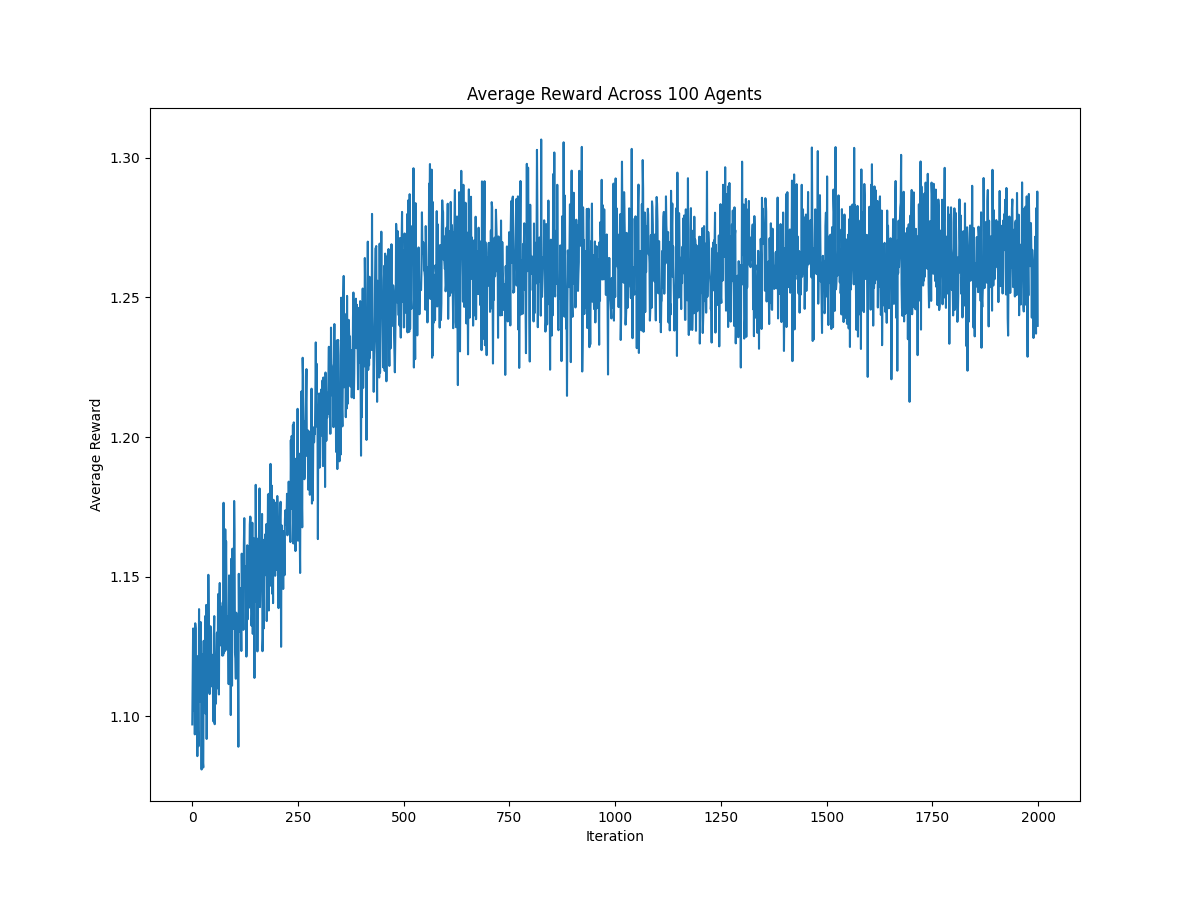
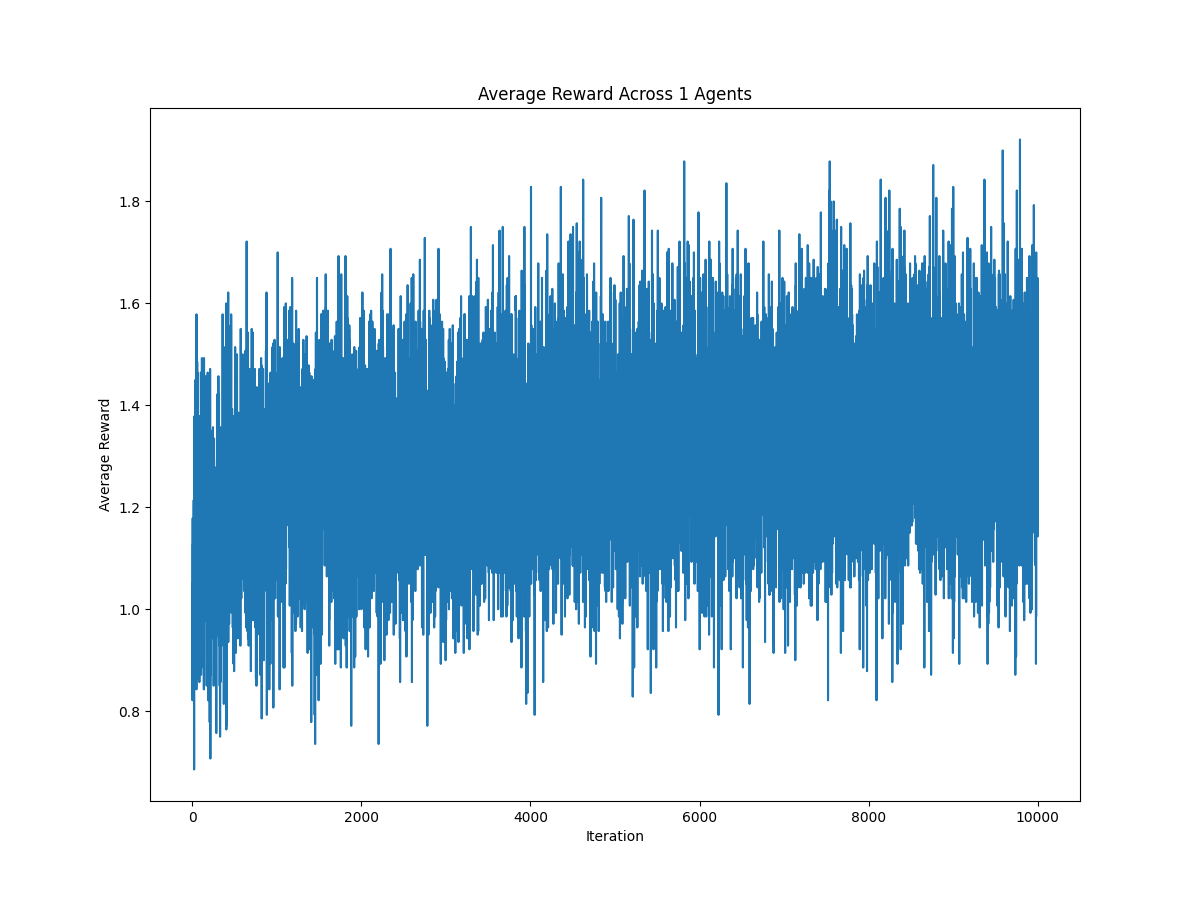
setting up exact-q again

diff --git a/src/final_actlab_sims/models.py b/src/final_actlab_sims/models.py
@@ -734,6 +734,41 @@ for name, agent in base_structs.items():
 # Merge base + parameter variants
 all_structs = {**base_structs, **param_variants}
 
+from src.exactq_agent import ExactQComparisonAgent
+#  --- EXACT Q SECTION --- #
+actions = [("Time studying", 0), ("Time studying", 1), ("Time studying", 2), ("Exercise", 0), ("Exercise", 1), ("Sleep", 0), ("Sleep", 1), ("Sleep", 2), ("ECs", 0), ("ECs", 1)]
+
+actions = [(action, 0.01) for action in actions[::-1]]
+
+exact_q_agents = [copy.deepcopy(ExactQComparisonAgent(actions = actions, gamma = 0.1, alpha = 0.01, cla_agent=copy.deepcopy(students["Ben"]))) for i in range(100)]
+
+# for exact in agents:
+#     print(f"agent: {agents.index(exact)}")
+#     exact.train(2000)
+
+# average_rewards: list[float] = []
+# for iteration in range(len(agents[0].reward_tracker)):
+#     total_reward = 0
+#     for agent in agents:
+#         total_reward += agent.reward_tracker[iteration]
+#     average_rewards.append(total_reward / len(agents))
+
+# for cpt in agents[0].agent.get_cpts():
+#     print(cpt)
+
+# print(agents[0].qvals)
+
+# max_key = max(agents[0].qvals, key=agents[0].qvals.get)
+# print("Key with max value:", max_key)
+# print("Max value:", agents[0].qvals[max_key])
+
+
+# plt.plot(average_rewards)
+# plt.xlabel('Iterations')
+# plt.ylabel('Reward')
+# plt.title('Reward Tracker Over Iterations')
+# plt.show()
+
 # base_structures = {
 #     "struct_1": struct_1,
 #     "struct_2": struct_2,
@@ -831,9 +866,4 @@ teacher_agent = CausalLearningAgent(
     reward_func=testing_environment.default_reward,
     fixed_evidence={}
 )
-
-
-
-
-
 

diff --git a/src/exactq_agent.py b/src/exactq_agent.py
@@ -59,10 +59,10 @@ class ExactQComparisonAgent:
             if (self.iter > 0) and (random.random() > self.eps)
             else random.choice(self.actions)
         )
-        self.eps -= 0.001
+        self.eps -= 0.00006
         self.iter += 1
         # print(self.iter)
-        # # print(self.qvals)
+        # print(self.qvals)
         # print(self.eps)
         # print(best_action)
         return best_action

diff --git a/src/final_actlab_sims/exactq/exactq.py b/src/final_actlab_sims/exactq/exactq.py
@@ -9,7 +9,7 @@ set_seed()
 
 for exact in exact_q_agents:
     print(f"agent: {exact_q_agents.index(exact)}")
-    exact.train(2000)
+    exact.train(10000)
 
 average_rewards: list[float] = []
 for iteration in range(len(exact_q_agents[0].reward_tracker)):
